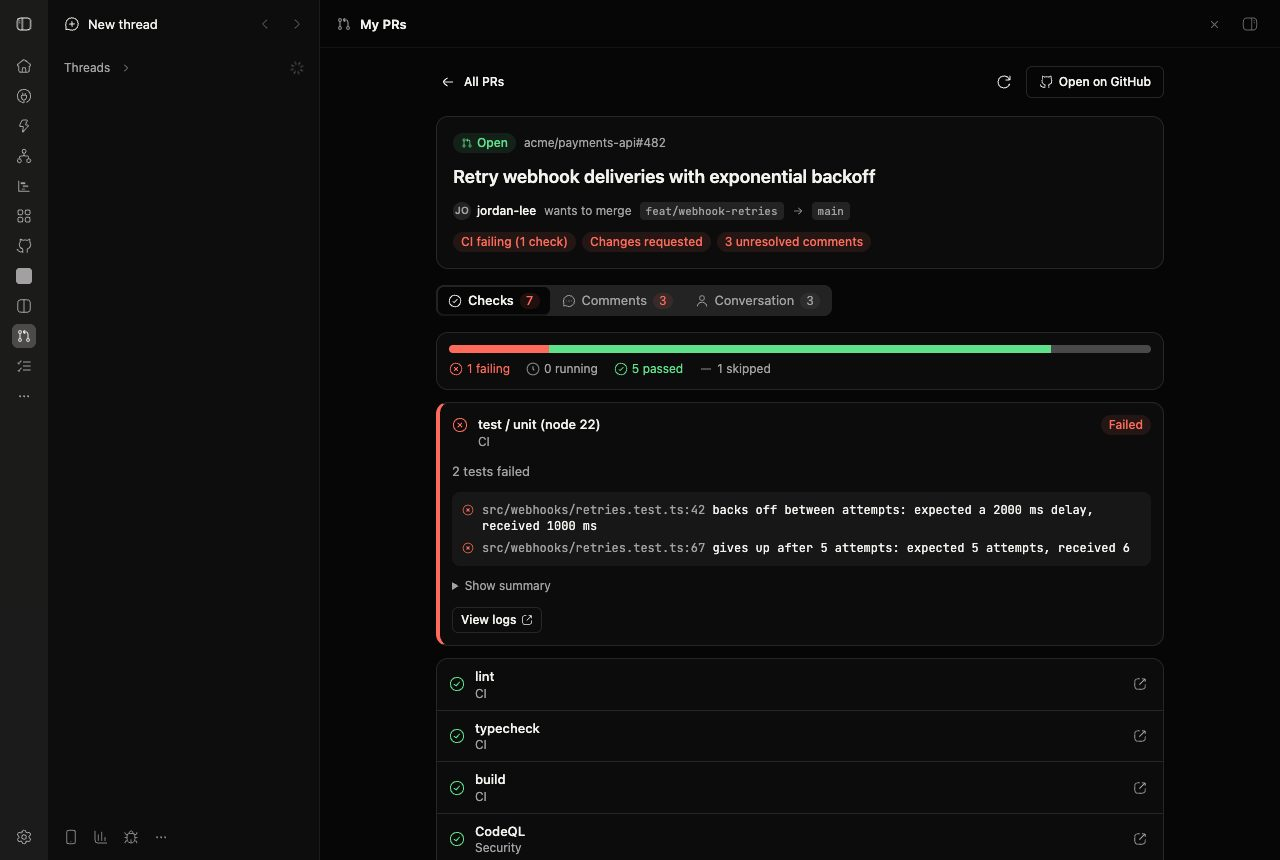
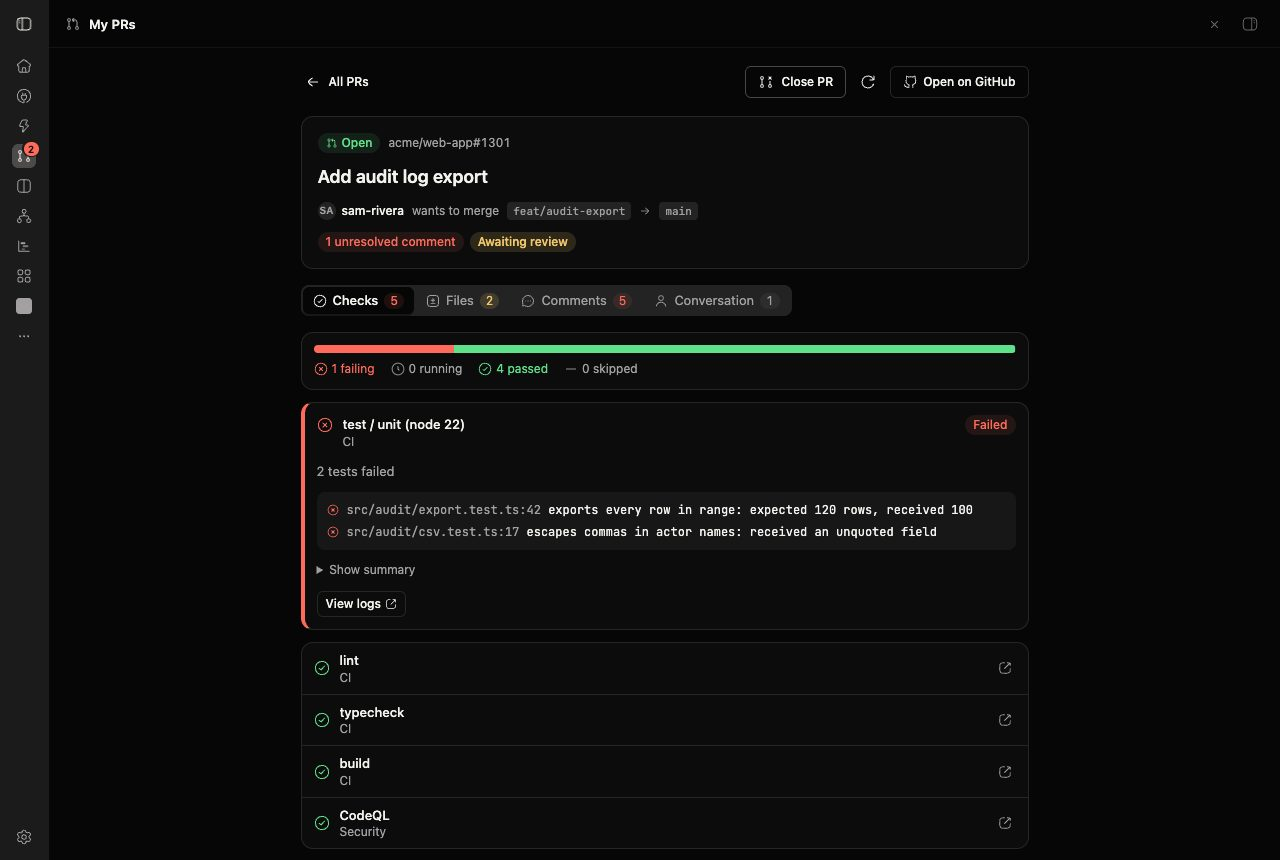
Update plugin entry: bb-github-pr-dashboard v0.2.0

diff --git a/overview/bb-github-pr-dashboard.md b/overview/bb-github-pr-dashboard.md
@@ -7,27 +7,48 @@ at a glance.
 - **Open**, **Merged** and **Closed** tabs with counts, listing the pull
   requests you authored across every repository you can see, grouped by
   repository, most recently updated first.
+- **Review requested** (from you or any team you are on) and **Assigned**
+  tabs for other people's pull requests, with each author shown.
 - For each open pull request, the reasons it is not merged yet: draft,
-  merge conflicts, failing CI (with each failing check linked), CI still
+  stacked on another pull request, merge conflicts, failing CI (with each failing check linked), CI still
   running, changes requested, unresolved review comments, or waiting on a
   review. A pull request with nothing blocking it says so.
 - A detail view for each pull request:
-  - **CI checks** named by pipeline and job (for example
-    `CI › test / unit`), with the failure reason, error annotations and
-    a link to the logs.
+  - Where it sits in a stack: the pull request it is based on, and any
+    loaded pull request based on it, each one click away.
+  - **Changed files**, inline or side by side with syntax highlighting, with
+    review comments under their lines. Press + or select line numbers (Shift-
+    click or drag for a range) to comment. Start a private review or post a single comment, then finish it
+    as Comment, Approve or Request changes, or discard it.
+  - **CI checks** by pipeline and job, with error annotations and logs.
   - **Review comments**, unresolved first, each with the diff it is on, who
-    asked, every reply, and whether it is waiting on your reply. Resolved
-    threads show who resolved them.
+    asked, every reply, and who it is waiting on. Reply to a thread right
+    there. Resolved threads show who resolved them.
   - The **conversation**: the description, comments and reviews in order,
-    rendered as Markdown.
-- Refresh buttons, and links that open the pull request, a comment or a
-  check's logs in your browser.
+    rendered as Markdown, with a box to add your own comment.
+- Close an open pull request (with a confirm step) or reopen a closed one.
+
+## Alerts
+
+- Every 5 minutes (you can change this), the plugin checks your open pull
+  requests and alerts you when a CI job starts failing, or when someone else
+  comments or reviews.
+- Each alert shows as a bb toast, adds a red count to the **My PRs** icon,
+  and waits in a "New since you last looked" list on the page. Allow desktop
+  notifications in the plugin settings to also get a system banner.
+- In the plugin settings (the bell button on My PRs), choose what alerts you
+  (CI failures, comments, or both) and how (toasts, desktop notifications,
+  the unread count), change the interval, or list review bots to ignore.
+  GitHub bot accounts are skipped already.
 
 ## How it works
 
-One GitHub GraphQL request on each refresh of the list, and one when you
-open a pull request, sent from the BB server. Nothing is stored, and no data
-leaves your machine except those requests to GitHub.
+One GitHub GraphQL request on each refresh of the list, one when you open a
+pull request (plus one REST request when you open its Files tab), and one per
+alert check, all sent from the BB server. Nothing is written to GitHub except
+what you send: comments, replies, reviews, and closing or reopening. Alerts and
+the state they compare against stay in this plugin's storage on your BB
+server. No data leaves your machine except those requests to GitHub.
 
 ## Requirements
 
@@ -35,7 +56,10 @@ leaves your machine except those requests to GitHub.
   [GitHub CLI](https://cli.github.com) login on the machine running BB
   (`gh auth login`), so each user sees their own pull requests.
 - Or set a personal access token in the plugin settings: `repo` scope for a
-  classic token, or Pull requests and Checks read access for a fine-grained
-  one. For organizations that enforce SAML SSO, authorize the token for that
+  classic token, or Pull requests read and write plus Checks read for a
+  fine-grained one. Write access is used only when you comment, reply,
+  review, close or reopen, all under your GitHub name and only when you click. For organizations that enforce SAML SSO, authorize the token for that
   organization, or its pull requests will be missing.
+- Alerts run only while the BB server runs, and desktop banners appear only
+  while a BB window is open. Alerts do not reach your phone.
 - github.com only; GitHub Enterprise Server is not supported yet.
